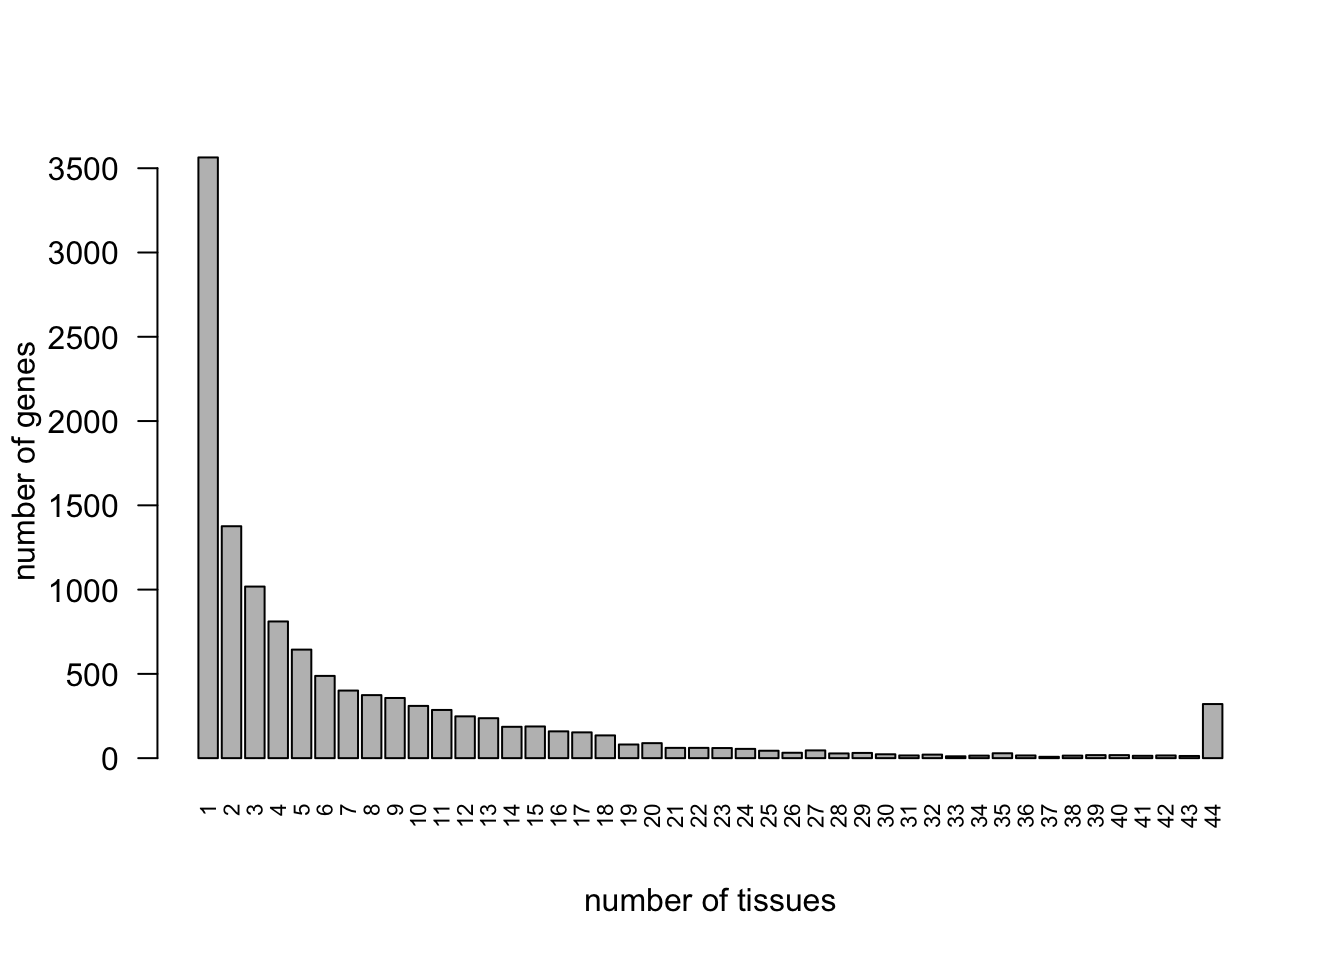
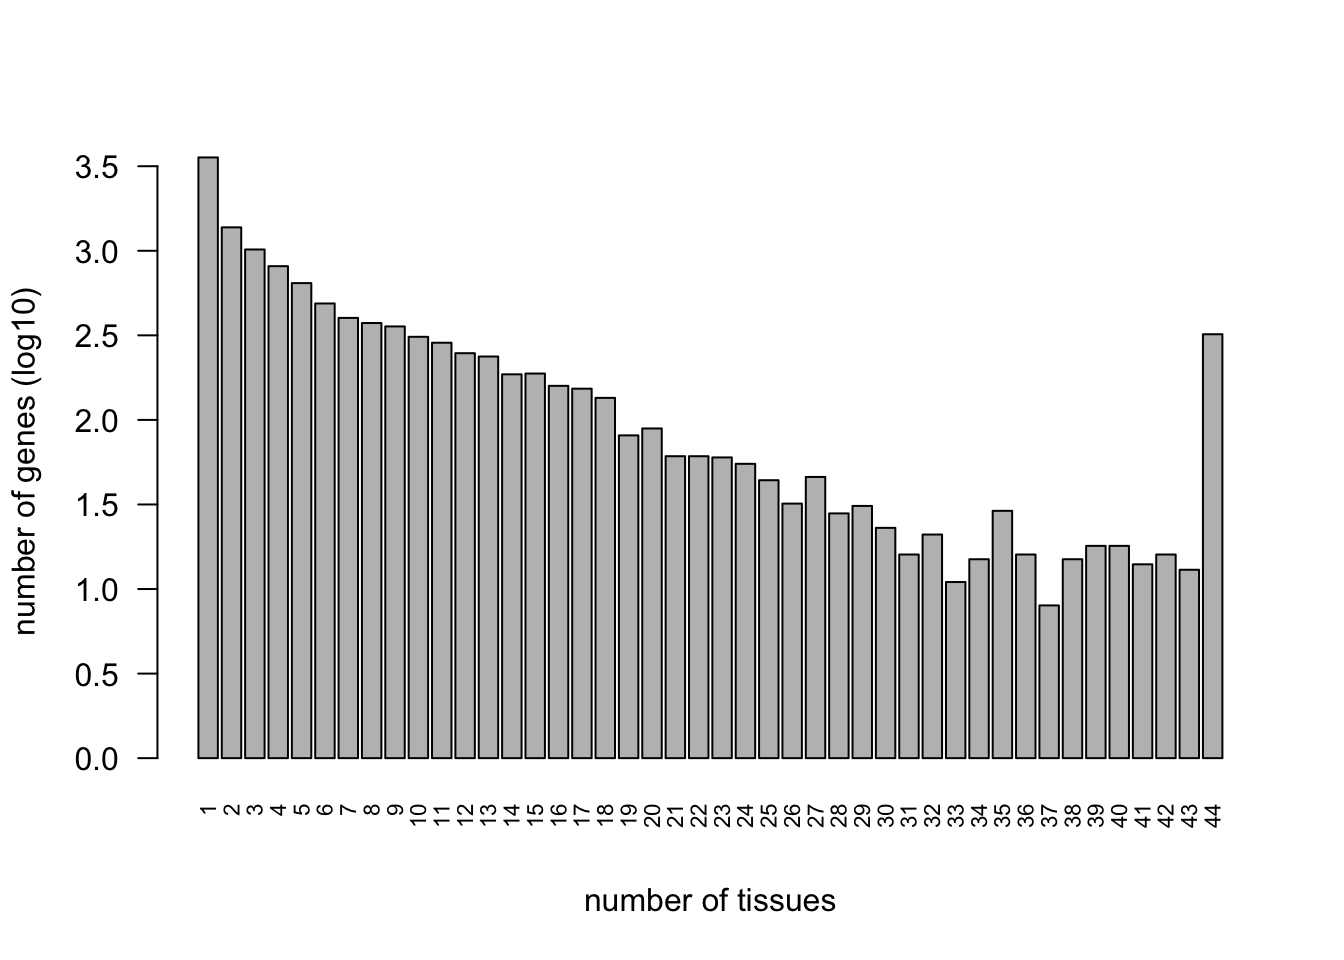
Build site.

diff --git a/docs/SexDEPlots.html b/docs/SexDEPlots.html
@@ -461,7 +461,7 @@ div.section {
 <div class="tab-content">
 <div id="summary" class="tab-pane fade in active">
 <p>
-<strong>Last updated:</strong> 2019-06-05
+<strong>Last updated:</strong> 2019-06-11
 </p>
 <p>
 <strong>Checks:</strong> <span class="glyphicon glyphicon-ok text-success" aria-hidden="true"></span> 6 <span class="glyphicon glyphicon-exclamation-sign text-danger" aria-hidden="true"></span> 0
@@ -540,10 +540,10 @@ This reproducible <a href="http://rmarkdown.rstudio.com">R Markdown</a> analysis
 <div class="panel panel-default">
 <div class="panel-heading">
 <p class="panel-title">
-<a data-toggle="collapse" data-parent="#workflowr-checks" href="#strongRepositoryversionstrongahrefhttpsgithubcomzouyuxinGTExtree8b44d2f846effec4c24eff4e42f5540bbb6706b0targetblank8b44d2fa"> <span class="glyphicon glyphicon-ok text-success" aria-hidden="true"></span> <strong>Repository version:</strong> <a href="https://github.com/zouyuxin/GTEx/tree/8b44d2f846effec4c24eff4e42f5540bbb6706b0" target="_blank">8b44d2f</a> </a>
+<a data-toggle="collapse" data-parent="#workflowr-checks" href="#strongRepositoryversionstrongahrefhttpsgithubcomzouyuxinGTExtree424033e3889d6798e8b9fcda9efe15930f84e3f1targetblank424033ea"> <span class="glyphicon glyphicon-ok text-success" aria-hidden="true"></span> <strong>Repository version:</strong> <a href="https://github.com/zouyuxin/GTEx/tree/424033e3889d6798e8b9fcda9efe15930f84e3f1" target="_blank">424033e</a> </a>
 </p>
 </div>
[2 lines of base64/hex data omitted]
 <div class="panel-body">
 <p>
 Great! You are using Git for version control. Tracking code development and connecting the code version to the results is critical for reproducibility. The version displayed above was the version of the Git repository at the time these results were generated. <br><br> Note that you need to be careful to ensure that all relevant files for the analysis have been committed to Git prior to generating the results (you can use <code>wflow_publish</code> or <code>wflow_git_commit</code>). workflowr only checks the R Markdown file, but you know if there are other scripts or data files that it depends on. Below is the status of the Git repository when the results were generated:
@@ -557,6 +557,7 @@ Ignored files:
 Untracked files:
     Untracked:  .DS_Store
     Untracked:  code/Demo_SumstatQuery.R
+    Untracked:  code/SexDE_get_genes.R
     Untracked:  data/.DS_Store
     Untracked:  data/cor_tissues_non_ash_voom_pearson.rda
     Untracked:  data/gene_names_GTEX_V6.txt
@@ -570,9 +571,6 @@ Untracked files:
     Untracked:  output/GTExV6pipeline/
     Untracked:  output/corshrink_noise_gene_1.rds
     Untracked:  output/sexde/
-
-Unstaged changes:
-    Modified:   analysis/SexDEpipeline.Rmd
 
 </code></pre>
 <p>
@@ -611,6 +609,40 @@ Message
 </tr>
 </thead>
 <tbody>
+<tr>
+<td>
+Rmd
+</td>
+<td>
+<a href="https://github.com/zouyuxin/GTEx/blob/424033e3889d6798e8b9fcda9efe15930f84e3f1/analysis/SexDEPlots.Rmd" target="_blank">424033e</a>
+</td>
+<td>
+zouyuxin
+</td>
+<td>
+2019-06-11
+</td>
+<td>
+wflow_publish(“analysis/SexDEPlots.Rmd”)
+</td>
+</tr>
+<tr>
+<td>
+html
+</td>
+<td>
+<a href="https://rawcdn.githack.com/zouyuxin/GTEx/c22c8ef443bf597a3d71e399ee60c5281ad26351/docs/SexDEPlots.html" target="_blank">c22c8ef</a>
+</td>
+<td>
+zouyuxin
+</td>
+<td>
+2019-06-05
+</td>
+<td>
+Build site.
+</td>
+</tr>
 <tr>
 <td>
 Rmd
@@ -675,7 +707,8 @@ library(kableExtra)
 library(ggplot2)
 library(gridExtra)
 library(tidyverse)
-library(dplyr)</code></pre>
+library(dplyr)
+library(ggrepel)</code></pre>
 <pre class="r"><code>m_mle_EZ = readRDS(&#39;output/sexde/sexde.EZ.FL_PC3.V_mle.mash_model.rds&#39;)
 m_mle_EZ$result = readRDS(&#39;output/sexde/sexde.EZ.FL_PC3.V_mle.posterior.random.rds&#39;)
 m_mle_EZ_mean = readRDS(&#39;output/sexde/sexde.EZ.FL_PC3.V_mle.mash_model.rds&#39;)
@@ -721,7 +754,7 @@ MLE
 <pre class="r"><code>sig = m_mle_EZ$result$lfsr &lt; sig_thresh
 num = table(rowSums(sig))
 num = num[-1]
-barplot(num, las=2, cex.names=0.7, ylab=&#39;number of genes&#39;, xlab=&#39;number of tissues&#39;)</code></pre>
+barplot(log10(num), las=2, cex.names=0.7, ylab=&#39;number of genes (log10)&#39;, xlab=&#39;number of tissues&#39;)</code></pre>
 <p><img src="figure/SexDEPlots.Rmd/unnamed-chunk-4-1.png" width="672" style="display: block; margin: auto;" /></p>
 <p>
 <button type="button" class="btn btn-default btn-xs btn-workflowr btn-workflowr-fig" data-toggle="collapse" data-target="#fig-unnamed-chunk-4-1">
@@ -765,8 +798,9 @@ zouyuxin
 <h2>Plot 2</h2>
 <pre class="r"><code>load(&#39;data/sexde/color_abb_codes.Robj&#39;)
 geno = read.delim(&#39;data/sexde/genetypes.txt&#39;, header = FALSE)
+geno$HUGO = gsub(&#39;.*.*_&#39;, &#39;&#39;, geno$V2)
 geno$V2 = gsub(&quot;_.*$&quot;, &quot;&quot;, geno$V2)
-colnames(geno) = c(&#39;chr&#39;, &#39;GENE&#39;, &#39;V3&#39;)
+colnames(geno) = c(&#39;chr&#39;, &#39;GENE&#39;, &#39;V3&#39;, &#39;HUGO&#39;)
 geno=geno %&gt;% distinct(GENE, .keep_all = TRUE)</code></pre>
 <p>Volcano Plot using average posterior mean:</p>
 <pre class="r"><code>data = data.frame(GENE = rownames(m_mle_EZ_mean$result$PosteriorMean), PosteriorMean = m_mle_EZ_mean$result$PosteriorMean, PosteriorSD = m_mle_EZ_mean$result$PosteriorSD, lfsr = m_mle_EZ_mean$result$lfsr, sharing = rowSums(sig))
@@ -832,13 +866,21 @@ data = inner_join(data, geno, by=&#39;GENE&#39;)</code></pre>
 <pre><code>Warning: Column `GENE` joining factor and character vector, coercing into
 character vector</code></pre>
 <pre class="r"><code>data$Significant &lt;- ifelse(data$lfsr &lt; sig_thresh, &quot;lfsr &lt; 0.01&quot;, &quot;Not Sig&quot;)
-data$position &lt;- ifelse(data$chr %in% c(&#39;chrX&#39;, &#39;chrY&#39;), &#39;x-linked&#39;, &#39;autosomal&#39;)</code></pre>
+data$position &lt;- ifelse(data$chr %in% c(&#39;chrX&#39;, &#39;chrY&#39;), &#39;x-linked&#39;, &#39;autosomal&#39;)
+
+## Create a column to indicate which genes to label
+data$genelabels &lt;- &quot;&quot;
+idx1 = which(data$lfsr&lt;1e-8)
+idx2 = which((nrow(data)+1 - rank(abs(data$PosteriorMean))) &lt;= 20)
+idx = intersect(idx1, idx2)
+data$genelabels[idx] &lt;- TRUE</code></pre>
 <pre class="r"><code>p = ggplot(data, aes(x = PosteriorMean, y = -log10(lfsr+1e-8))) +
-  geom_point(aes(color = Significant, size = sharing, shape=position)) + xlim(-12, 12) + 
+  geom_point(aes(color = Significant, size = sharing, shape=position)) + xlim(-12, 12) + ylim(0,8.5) +
   scale_color_manual(values = c(&quot;red&quot;, &quot;grey&quot;)) +
   geom_errorbarh(aes(xmin=PosteriorMean-2*PosteriorSD, xmax=PosteriorMean+2*PosteriorSD, color = Significant),cex=0.5)+ 
   ylab(&#39;-log10(lfsr)&#39;) + xlab(&#39;effect size&#39;) + 
-  theme_bw(base_size = 12) + theme(legend.position = &quot;bottom&quot;)
+  theme_bw(base_size = 12) + theme(legend.position = &quot;bottom&quot;) + 
+  geom_text_repel(aes(label = ifelse(genelabels == T, HUGO,&quot;&quot;)))
 p</code></pre>
 <p><img src="figure/SexDEPlots.Rmd/unnamed-chunk-9-1.png" width="672" style="display: block; margin: auto;" /></p>
 <p>
@@ -959,7 +1001,13 @@ data$position &lt;- ifelse(data$chr %in% c(&#39;chrX&#39;, &#39;chrY&#39;), &#39
 data = data %&gt;% arrange(desc(lfsr))
 data$GENE = factor(data$GENE, levels = data$GENE)
 
-p = ggplot(data=data,
+## Create a column to indicate which genes to label
+data$genelabels &lt;- &quot;&quot;
+idx1 = which(data$lfsr&lt;1e-8)
+idx2 = which((nrow(data)+1 - rank(abs(data$PosteriorMean))) &lt;= 20)
+idx = intersect(idx1, idx2)
+data$genelabels[idx] &lt;- TRUE</code></pre>
+<pre class="r"><code>p = ggplot(data=data,
     aes(x = GENE,y = PosteriorMean))+
     geom_point(aes(shape=position, size=sharing))+
     geom_hline(yintercept =0, linetype=2)+
@@ -971,46 +1019,30 @@ p = ggplot(data=data,
         axis.text.x=element_text(face=&quot;bold&quot;),
         axis.title=element_text(size=12,face=&quot;bold&quot;),
         strip.text.y = element_text(hjust=0,vjust = 1,angle=180,face=&quot;bold&quot;))+
-    coord_flip()
+    coord_flip() + 
+  geom_text_repel(aes(label = ifelse(genelabels == T, HUGO,&quot;&quot;)))
 p</code></pre>
-<p><img src="figure/SexDEPlots.Rmd/unnamed-chunk-11-1.png" width="672" style="display: block; margin: auto;" /></p>
-<p>
-<button type="button" class="btn btn-default btn-xs btn-workflowr btn-workflowr-fig" data-toggle="collapse" data-target="#fig-unnamed-chunk-11-1">
-Past versions of unnamed-chunk-11-1.png
-</button>
-</p>
-<div id="fig-unnamed-chunk-11-1" class="collapse">
-<div class="table-responsive">
-<table class="table table-condensed table-hover">
-<thead>
-<tr>
-<th>
-Version
-</th>
-<th>
-Author
-</th>
-<th>
-Date
-</th>
-</tr>
-</thead>
-<tbody>
-<tr>
-<td>
-<a href="https://github.com/zouyuxin/GTEx/blob/d30ab3ba23908cd9f391d3e070257b78a8a330a6/docs/figure/SexDEPlots.Rmd/unnamed-chunk-11-1.png" target="_blank">d30ab3b</a>
-</td>
-<td>
-zouyuxin
-</td>
-<td>
-2019-06-05
-</td>
-</tr>
-</tbody>
-</table>
+<p><img src="figure/SexDEPlots.Rmd/unnamed-chunk-12-1.png" width="672" style="display: block; margin: auto;" /></p>
 </div>
-</div>
+<div id="plot-4" class="section level2">
+<h2>Plot 4</h2>
+<pre class="r"><code>a = apply(abs(m_mle_EZ$result$PosteriorMean), 1, which.max)
+beta = sapply(1:nrow(m_mle_EZ$result$PosteriorMean), function(i) m_mle_EZ$result$PosteriorMean[i, a[i]])
+se = sapply(1:nrow(m_mle_EZ$result$PosteriorSD), function(i) m_mle_EZ$result$PosteriorSD[i, a[i]])
+lfsr = sapply(1:nrow(m_mle_EZ$result$lfsr), function(i) m_mle_EZ$result$lfsr[i, a[i]])
+data = data.frame(GENE = rownames(m_mle_EZ$result$PosteriorMean), PosteriorMean = beta, PosteriorSD = se, lfsr = lfsr, sharing = rowSums(sig))
+data$lfsr[data$lfsr &lt; 0] = 0
+data = inner_join(data, geno, by=&#39;GENE&#39;)</code></pre>
+<pre><code>Warning: Column `GENE` joining factor and character vector, coercing into
+character vector</code></pre>
+<pre class="r"><code>data$Significant &lt;- ifelse(data$lfsr &lt; sig_thresh, &quot;lfsr &lt; 0.01&quot;, &quot;Not Sig&quot;)
+data$position &lt;- ifelse(data$chr %in% c(&#39;chrX&#39;, &#39;chrY&#39;), &#39;x-linked&#39;, &#39;autosomal&#39;)</code></pre>
+<pre class="r"><code>p = ggplot(data=data,
+    aes(x = position,y = PosteriorMean)) +
+    geom_violin() + geom_boxplot(width=0.1) + 
+    ylab(&#39;effect size&#39;)
+p</code></pre>
+<p><img src="figure/SexDEPlots.Rmd/unnamed-chunk-14-1.png" width="672" style="display: block; margin: auto;" /></p>
 <br>
 <p>
 <button type="button" class="btn btn-default btn-workflowr btn-workflowr-sessioninfo" data-toggle="collapse" data-target="#workflowr-sessioninfo" style="display: block;">
@@ -1034,11 +1066,11 @@ attached base packages:
 [1] stats     graphics  grDevices utils     datasets  methods   base     
 
 other attached packages:
- [1] forcats_0.4.0     stringr_1.4.0     dplyr_0.8.1      
- [4] purrr_0.3.2       readr_1.3.1       tidyr_0.8.3      
- [7] tibble_2.1.1      tidyverse_1.2.1   gridExtra_2.3    
-[10] ggplot2_3.1.1     kableExtra_1.1.0  knitr_1.23       
-[13] mashr_0.2.21.0641 ashr_2.2-38      
+ [1] ggrepel_0.8.1     forcats_0.4.0     stringr_1.4.0    
+ [4] dplyr_0.8.1       purrr_0.3.2       readr_1.3.1      
+ [7] tidyr_0.8.3       tibble_2.1.1      tidyverse_1.2.1  
+[10] gridExtra_2.3     ggplot2_3.1.1     kableExtra_1.1.0 
+[13] knitr_1.23        mashr_0.2.21.0641 ashr_2.2-38      
 
 loaded via a namespace (and not attached):
  [1] httr_1.4.0        jsonlite_1.6      viridisLite_0.3.0
